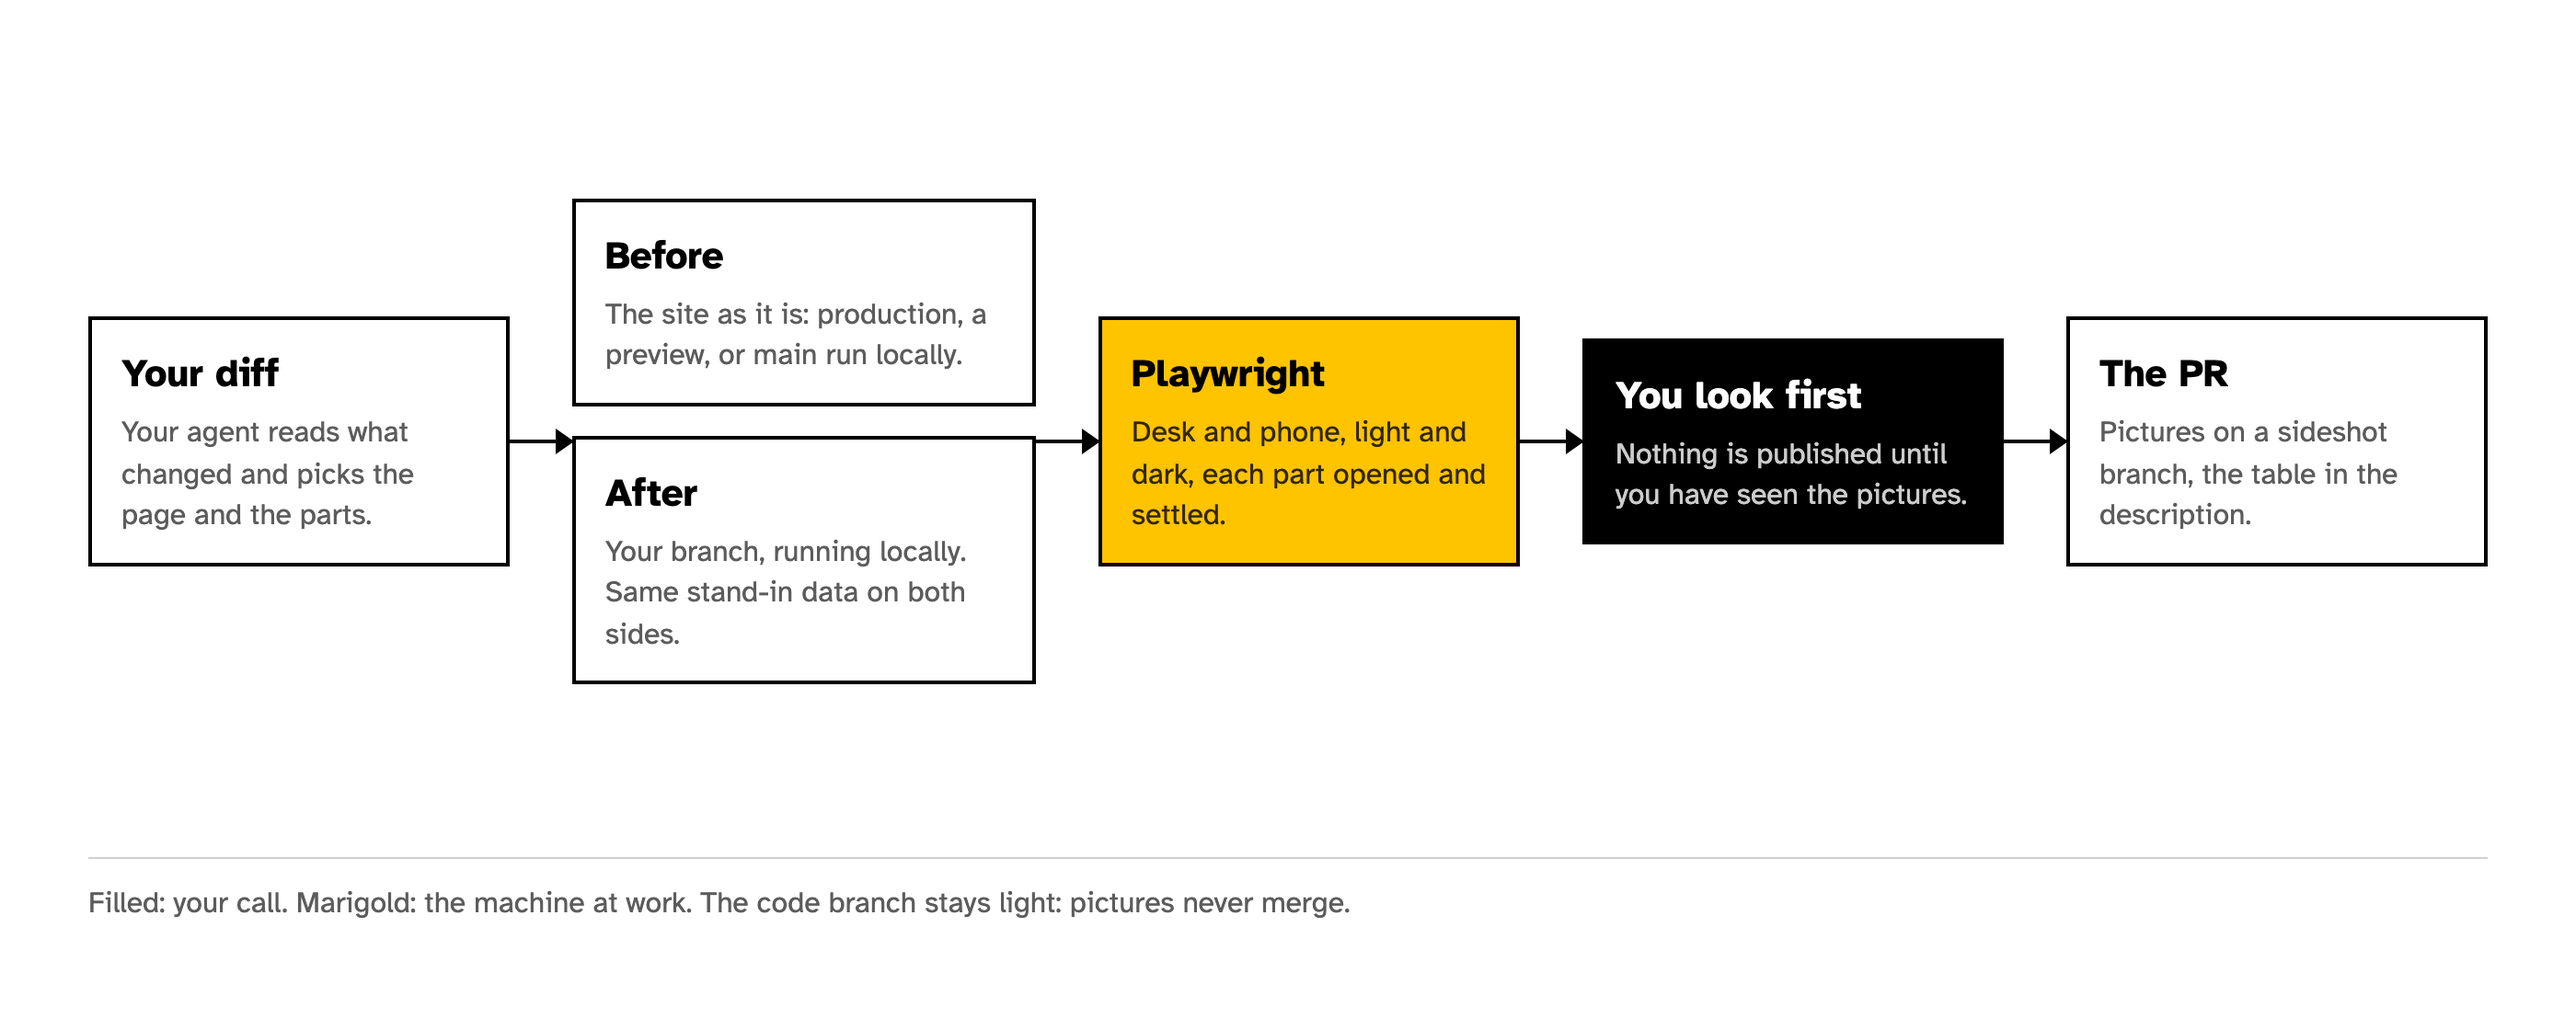
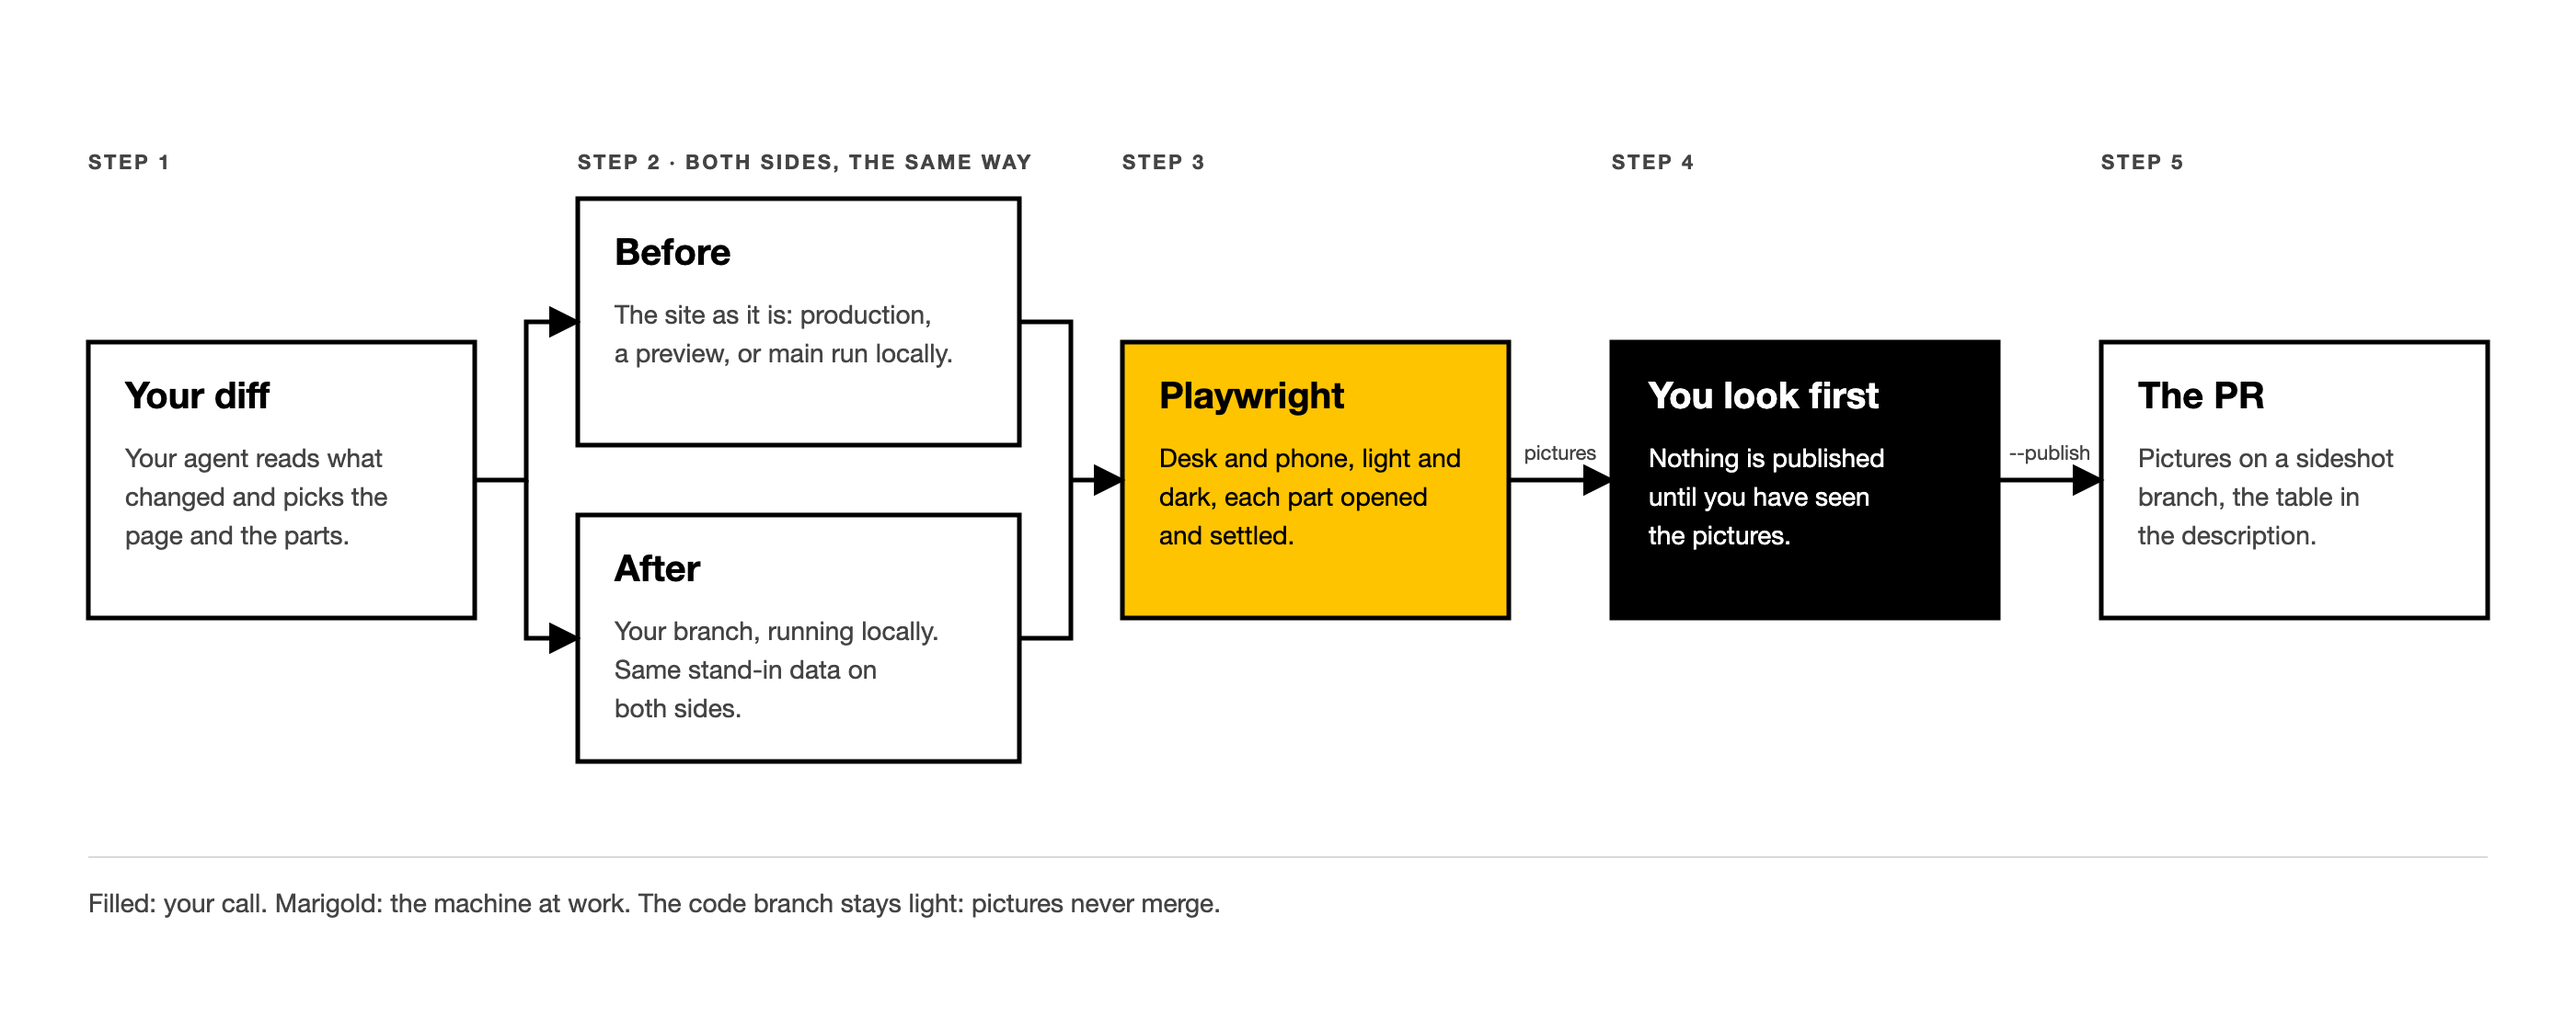
docs: the how-it-works figure shows Before and After as one step, with an arrow into each
The arrow out of Your diff pointed at the gap between the Before and After boxes,
and the lines into them had no heads, so the pair did not read as one step that
pictures both sides. Now one line forks into an arrowhead for each box and joins
again into Playwright, a row of step labels above names the pair as step 2, and
the arrows to the right say what moves along them (pictures, --publish).

The figure has a source now, docs/assets/how.html, an inline SVG that follows
prefers-color-scheme like the README's <picture>; node docs/render-how.mjs draws
both PNGs from it at the same 2800×1120 as before.

diff --git a/docs/assets/how.html b/docs/assets/how.html
@@ -1,0 +1,148 @@
+<!doctype html>
+<html lang="en">
+<!--
+  The source of how-light.png and how-dark.png, the "How it works" figure in the README.
+  Edit this file, then render both pictures: node docs/render-how.mjs
+  It follows prefers-color-scheme, as the README does; data-theme="light" or "dark" on <html> overrides it.
+-->
+<head>
+  <meta charset="utf-8" />
+  <title>How SideShot works</title>
+  <style>
+    :root {
+      --bg: #ffffff;
+      --fg: #000000;
+      --muted: #444444;
+      --rule: #d9d9d9;
+      --filled-bg: #000000;
+      --filled-fg: #ffffff;
+      --marigold: #ffc400;
+    }
+    :root[data-theme="dark"] {
+      --bg: #1b1b1b;
+      --fg: #f2f2f2;
+      --muted: #bdbdbd;
+      --rule: #3a3a3a;
+      --filled-bg: #f2f2f2;
+      --filled-fg: #1b1b1b;
+    }
+    @media (prefers-color-scheme: dark) {
+      :root:not([data-theme="light"]) {
+        --bg: #1b1b1b;
+        --fg: #f2f2f2;
+        --muted: #bdbdbd;
+        --rule: #3a3a3a;
+        --filled-bg: #f2f2f2;
+        --filled-fg: #1b1b1b;
+      }
+    }
+    html, body { margin: 0; background: var(--bg); }
+    body { width: 1400px; }
+    svg {
+      display: block;
+      width: 1400px;
+      height: 560px;
+      color: var(--fg);
+      font-family: Inter, -apple-system, "Segoe UI", "Helvetica Neue", Helvetica, Arial, sans-serif;
+    }
+    .title { font-size: 20px; font-weight: 700; fill: currentColor; }
+    .body { font-size: 14px; fill: var(--muted); }
+    .step { font-size: 11px; font-weight: 600; letter-spacing: .12em; fill: var(--muted); }
+    .edge { font-size: 11px; fill: var(--muted); }
+    .box { fill: var(--bg); stroke: currentColor; stroke-width: 2.5; }
+    .filled .box { fill: var(--filled-bg); }
+    .filled .body { fill: var(--filled-fg); }
+    .filled .title { fill: var(--filled-fg); }
+    .machine .box { fill: var(--marigold); stroke: currentColor; }
+    .machine .title, .machine .body { fill: #000; }
+    .wire { fill: none; stroke: currentColor; stroke-width: 2.5; }
+    .legend { font-size: 14px; fill: var(--muted); }
+    .rule { stroke: var(--rule); stroke-width: 1; }
+  </style>
+</head>
+<body>
+  <svg viewBox="0 0 1400 560" role="img"
+       aria-label="Your diff, then before and after taken the same way, then Playwright on desk and phone, then you look, then the PR">
+    <defs>
+      <marker id="arrow" viewBox="0 0 10 10" refX="9" refY="5" markerWidth="7" markerHeight="7" orient="auto-start-reverse">
+        <path d="M 0 0 L 10 5 L 0 10 z" fill="currentColor" />
+      </marker>
+    </defs>
+
+    <!-- Step labels: one row, so the pair in the middle reads as one step with two boxes -->
+    <text class="step" x="48" y="92">STEP 1</text>
+    <text class="step" x="314" y="92">STEP 2 · BOTH SIDES, THE SAME WAY</text>
+    <text class="step" x="610" y="92">STEP 3</text>
+    <text class="step" x="876" y="92">STEP 4</text>
+    <text class="step" x="1142" y="92">STEP 5</text>
+
+    <!-- 1. Your diff -->
+    <g>
+      <rect class="box" x="48" y="186" width="210" height="150" />
+      <text class="title" x="68" y="222">Your diff</text>
+      <text class="body" x="68" y="254">Your agent reads what</text>
+      <text class="body" x="68" y="275">changed and picks the</text>
+      <text class="body" x="68" y="296">page and the parts.</text>
+    </g>
+
+    <!-- 2. Before and After: one column, two boxes, an arrowhead into each -->
+    <g>
+      <rect class="box" x="314" y="108" width="240" height="134" />
+      <text class="title" x="334" y="144">Before</text>
+      <text class="body" x="334" y="176">The site as it is: production,</text>
+      <text class="body" x="334" y="197">a preview, or main run locally.</text>
+    </g>
+    <g>
+      <rect class="box" x="314" y="280" width="240" height="134" />
+      <text class="title" x="334" y="316">After</text>
+      <text class="body" x="334" y="348">Your branch, running locally.</text>
+      <text class="body" x="334" y="369">Same stand-in data on</text>
+      <text class="body" x="334" y="390">both sides.</text>
+    </g>
+
+    <!-- 3. Playwright, marigold: the machine at work -->
+    <g class="machine">
+      <rect class="box" x="610" y="186" width="210" height="150" />
+      <text class="title" x="630" y="222">Playwright</text>
+      <text class="body" x="630" y="254">Desk and phone, light and</text>
+      <text class="body" x="630" y="275">dark, each part opened</text>
+      <text class="body" x="630" y="296">and settled.</text>
+    </g>
+
+    <!-- 4. You look first, filled: your call -->
+    <g class="filled">
+      <rect class="box" x="876" y="186" width="210" height="150" />
+      <text class="title" x="896" y="222">You look first</text>
+      <text class="body" x="896" y="254">Nothing is published</text>
+      <text class="body" x="896" y="275">until you have seen</text>
+      <text class="body" x="896" y="296">the pictures.</text>
+    </g>
+
+    <!-- 5. The PR -->
+    <g>
+      <rect class="box" x="1142" y="186" width="210" height="150" />
+      <text class="title" x="1162" y="222">The PR</text>
+      <text class="body" x="1162" y="254">Pictures on a sideshot</text>
+      <text class="body" x="1162" y="275">branch, the table in</text>
+      <text class="body" x="1162" y="296">the description.</text>
+    </g>
+
+    <!-- Wires. The fork: one line out of Your diff, a head into Before and a head into After. -->
+    <path class="wire" d="M 258 261 H 286 V 175 H 314" marker-end="url(#arrow)" />
+    <path class="wire" d="M 286 261 V 347 H 314" marker-end="url(#arrow)" />
+    <!-- The join: both sides into one arrow to Playwright -->
+    <path class="wire" d="M 554 175 H 582 V 347 H 554" />
+    <path class="wire" d="M 582 261 H 610" marker-end="url(#arrow)" />
+    <!-- Playwright to You look first -->
+    <path class="wire" d="M 820 261 H 876" marker-end="url(#arrow)" />
+    <text class="edge" x="848" y="250" text-anchor="middle">pictures</text>
+    <!-- You look first to The PR -->
+    <path class="wire" d="M 1086 261 H 1142" marker-end="url(#arrow)" />
+    <text class="edge" x="1114" y="250" text-anchor="middle">--publish</text>
+
+    <!-- Legend -->
+    <line class="rule" x1="48" y1="466" x2="1352" y2="466" />
+    <text class="legend" x="48" y="496">Filled: your call. Marigold: the machine at work. The code branch stays light: pictures never merge.</text>
+  </svg>
+</body>
+</html>
